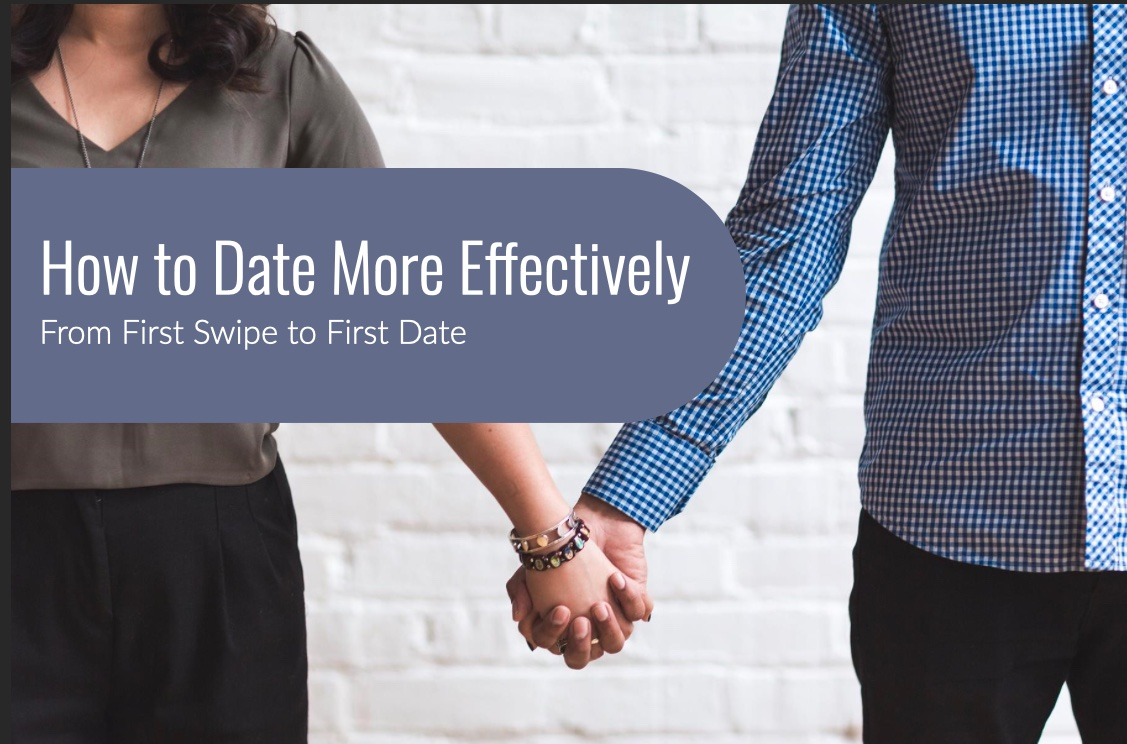
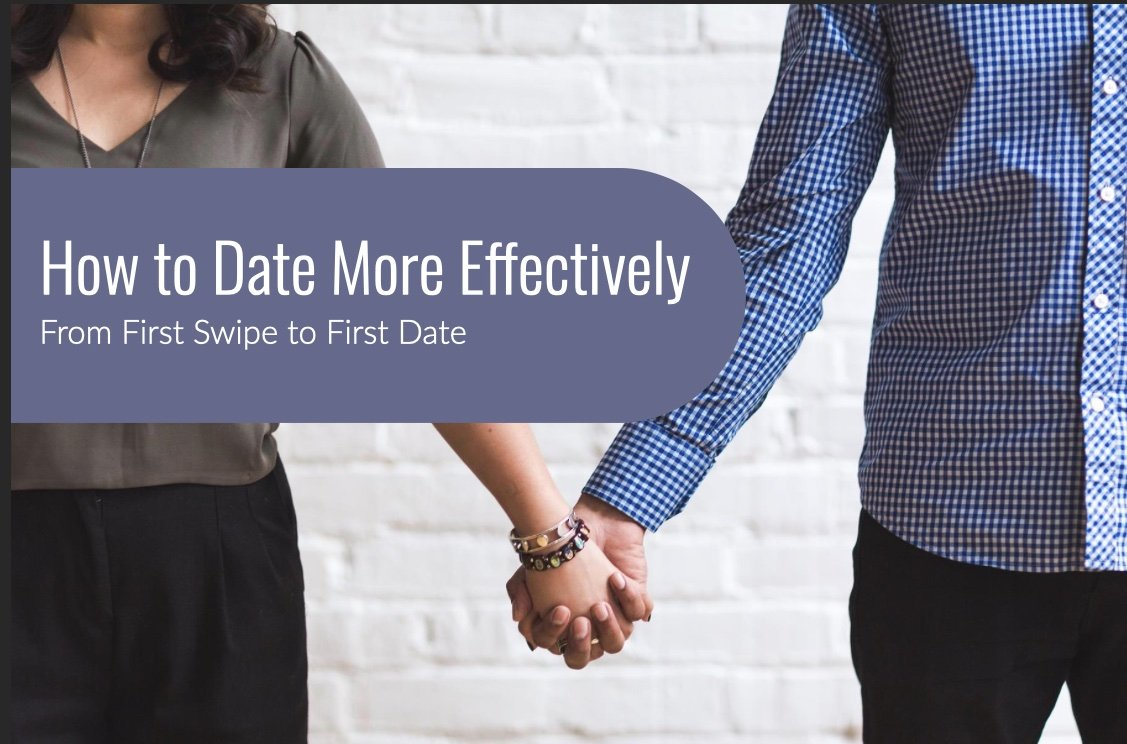
Re-encode the five heavy project images, lazy-load all but the first, and reserve the detail hero's box
The seven active project images weighed 3.0 MB, 2.97 MB of it in five
files: the NACVA PNG alone was 1.64 MB at 1920px, and the Portfolio
page's flagship card took 6.7 s to appear on a throttled phone. Their
largest rendered width is 719 CSS px (one column at a 767px viewport),
so 1440px covers a 2x screen. The three title-graphic PNGs had no
transparency and thousands of colours, which a lossless PNG cannot make
small (a 1440px PNG came out at 1.0 MB), so they are WebP now (q90), with
the paths in their project files updated. how-to-waltz.jpg was really a
lossless WebP; it is a lossy WebP under a .webp name. The Storyline
course photo stays a JPEG with the same name (q85). Before/after:
NACVA 1,641,025 -> 98,826 B (1920 -> 1440px); ai-law-course 462,770 ->
66,312; chartway-ficep-enhanced 369,026 -> 54,122; how-to-waltz 268,454
-> 106,304; professional-communication-training 230,797 -> 130,038.
Total 2,972,072 -> 455,602 B (-85%). Side-by-side at 2x DPR the old and
new images look the same; PSNR at display size is 37-47 dB.

Every card image was requested on load, so the 'All' view fetched seven
images at once and the one that mattered finished last. The first card
of a grid now loads eagerly at fetchpriority high and the rest lazily,
all with decoding="async" (src/utils/images.ts; React 18 does not know
the fetchPriority prop, so the lowercase attribute is passed through).
The detail hero sits in a fixed-height box (192px on phones, 288px from
[…]

Changed region(s): [[0.8696, 0.0, 1.0, 0.5565], [0.528, 0.1855, 0.7453, 0.711], [0.9627, 0.5874, 1.0, 0.6801]]

diff --git a/src/pages/ProjectDetailPage.tsx b/src/pages/ProjectDetailPage.tsx
@@ -40,7 +40,7 @@ import { fadeInUp } from '@/lib/animations';
 import { projects, projectCategories } from '@/content';
 import type { ProjectId } from '@/content/projects';
 import type { ProjectBase, ProjectStatus } from '@/types/content';
-import { getImagePath, isPdf, documentHref } from '@/utils';
+import { getImagePath, isPdf, documentHref, imageLoading } from '@/utils';
 import BasePage from './BasePage';
 
 const NewTabHint = () => <span className="sr-only"> (opens in a new tab)</span>;
@@ -383,16 +383,26 @@ const ProjectDetailPage: React.FC = () => {
                 object-contain fixed the height but letterboxed every image in
                 grey bands, which read as an unfinished frame.
 
+                The fixed-height wrapper (192px on phones, 288px from sm up)
+                reserves the image's space before it loads. Without it the
+                img was 0px tall until its header arrived, and the metrics
+                and story jumped down by up to 288px as the reader started.
+                The image is the page's first visible one, so it is fetched
+                eagerly at high priority.
+
                 alt: the title is the h1 just above, so repeating it here only
                 made screen readers say it twice. imageAlt carries the text
                 baked into the graphic; purely pictorial images stay alt="".
               */}
               {currentProject.image && (
-                <img
-                  src={currentProject.image}
-                  alt={currentProject.imageAlt ?? ''}
-                  className="block mx-auto w-auto max-w-full max-h-72 rounded-lg mb-6"
-                />
+                <div className="flex h-48 sm:h-72 items-center justify-center mb-6">
+                  <img
+                    src={currentProject.image}
+                    alt={currentProject.imageAlt ?? ''}
+                    {...imageLoading(true)}
+                    className="block w-auto h-auto max-w-full max-h-full rounded-lg"
+                  />
+                </div>
               )}
 
               <ProjectLinks project={currentProject} className="md:hidden mb-6" />

diff --git a/src/content/projects/ai-law-course.ts b/src/content/projects/ai-law-course.ts
@@ -8,7 +8,7 @@ const aiLawCourse: ProjectBase = {
   title: 'Graduate Curriculum Design Project - AI & Law Course',
   description: 'A three-person graduate capstone team designed and built this ten-week AI and Law course for Master of Legal Studies students, delivered in Canvas. We ran a client interview with the faculty sponsor, developed personas, ran a cognitive walkthrough on our own design, and validated it with a stakeholder review before handover.',
   longDescription: `Graduate capstone, built by a team of three for the University of Utah's S.J. Quinney College of Law. This challenging project required translating complex artificial intelligence concepts into accessible learning experiences for Master of Legal Studies students, demonstrating my ability to work with complex content and diverse subject matter experts. Applied competency-based instructional design principles to build a ten-module weekly curriculum covering AI foundations, prompt engineering, legal research applications, media, and professional ethics, assessed through five quizzes, four applied assignments, and five discussion cycles. The project involved extensive collaboration with legal and technical faculty, providing valuable experience in SME coordination and academic curriculum development. This project showcases my ability to handle complex instructional design challenges and apply systematic methodology to real-world educational needs.`,
-  image: getImagePath('/images/thumbnails/ai-law-course.png'),
+  image: getImagePath('/images/thumbnails/ai-law-course.webp'),
   imageAlt: 'Title graphic: Graduate Course Overview - AI & Law: Bridging Technology and Legal Expertise',
   category: 'id',
   tags: [

diff --git a/src/content/projects/chartway-ficep-enhanced.ts b/src/content/projects/chartway-ficep-enhanced.ts
@@ -8,7 +8,7 @@ const chartwayFicepEnhanced: ProjectBase = {
   title: 'Financial Wellness Internship - FiCEP Curriculum Needs Analysis',
   description: 'I conducted a systematic needs analysis for Chartway Credit Union\'s Financial Counseling Examination Preparation program. This project involved applying ADDIE methodology and evidence-based research to identify performance gaps and provide curriculum enhancement recommendations.',
   longDescription: `Conducted comprehensive needs analysis for Chartway Credit Union's Financial Information Counseling and Education Program (FiCEP) certification preparation program under professional supervision. Applied systematic ADDIE methodology including semi-structured interviews with 5 program participants and survey distribution yielding 21 responses to identify performance barriers following ACU's sixth edition material update. Analysis revealed key findings: Management Needs to Set Apart More Time (23 mentions - highest priority), Study Guide was Helpful (17 mentions), Personalized per organization Content (16 mentions), Need Better Practice Exam (12 mentions). Delivered evidence-based curriculum enhancement recommendations addressing organizational support structures, assessment alignment gaps, and contextual learning approaches to help restore examination pass rates and improve learner experience.`,
-  image: getImagePath('/images/thumbnails/chartway-ficep-enhanced.png'),
+  image: getImagePath('/images/thumbnails/chartway-ficep-enhanced.webp'),
   imageAlt: 'Title graphic: Systematic Needs Analysis - FiCEP Curriculum Redesign for Corporate Training Improvement',
   category: 'id',
   tags: [

diff --git a/src/components/features/portfolio/ProjectCard.tsx b/src/components/features/portfolio/ProjectCard.tsx
@@ -33,11 +33,16 @@ import { ExternalLink, ArrowRight } from 'lucide-react';
 import { ProjectBase } from '@/types/content';
 import { cardHover } from '@/lib/animations';
 import { Badge } from '@/components/ui';
-import { isPdf, documentHref } from '@/utils';
+import { isPdf, documentHref, imageLoading } from '@/utils';
 
 interface ProjectCardProps {
   project: ProjectBase;
   className?: string;
+  /**
+   * The first card on the page: its image is fetched eagerly at high
+   * priority. Every other card's image is lazy-loaded.
+   */
+  priority?: boolean;
 }
 
 const STATUS_LABELS: Record<string, string> = {
@@ -62,7 +67,8 @@ const outlineAction = `${actionBase} border-2 border-primary-600 text-primary-60
 
 export const ProjectCard: React.FC<ProjectCardProps> = ({
   project,
-  className = ''
+  className = '',
+  priority = false
 }) => {
   const location = useLocation();
   const [imageFit, setImageFit] = useState<'cover' | 'contain'>('contain');
@@ -95,6 +101,7 @@ export const ProjectCard: React.FC<ProjectCardProps> = ({
         <img
           src={project.image}
           alt={project.imageAlt ?? ''}
+          {...imageLoading(priority)}
           onLoad={handleImageLoad}
           className={`w-full h-full ${imageFit === 'cover' ? 'object-cover' : 'object-contain'} transition-transform duration-300 motion-safe:group-hover:scale-105`}
         />

diff --git a/src/content/projects/course-waltz.ts b/src/content/projects/course-waltz.ts
@@ -8,7 +8,7 @@ const waltzCourse: ProjectBase = {
   title: "Teaching the Waltz Online Course",
   description: "I created this online dance education course for teaching waltz to beginners. This project involved applying ADDIE methodology and ARCS motivation model to transform physical dance instruction into an engaging digital learning experience.",
   longDescription: "Graduate final project, co-designed with a classmate, taking a physical skill - the waltz box step and progressive basic - and building it into a self-paced Canvas course for complete beginners. The interesting constraint is that dance is kinesthetic and the delivery is not: learners cannot be corrected in the moment, so the design has to anticipate the mistakes instead. We worked from a written needs assessment through a full module blueprint, then assessment design, then a small-group formative evaluation. Instruction was filmed rather than sourced from existing video so that demonstrations could deliberately show the common errors as well as the correct form.",
-  image: getImagePath('/images/thumbnails/how-to-waltz.jpg'),
+  image: getImagePath('/images/thumbnails/how-to-waltz.webp'),
   category: "id",
   tags: ["Instructional Design", "Online Learning", "Dance Education", "Canvas LMS", "Curriculum Development"],
   status: "completed",

diff --git a/src/content/projects/nacva-automation.ts b/src/content/projects/nacva-automation.ts
@@ -12,7 +12,7 @@ const nacvaAutomation: ProjectBase = {
 CVA and MAFF are highly respected, nationally accredited credentials for CPAs, business valuators, and financial litigation consultants. My work focused on modernizing their learning content delivery systems and eliminating time-consuming manual data entry processes that delayed course deployment for busy professionals seeking these certifications.
 
 This contractor role provided valuable experience in learning technology optimization for professional development organizations, demonstrating how technical automation can significantly improve educational content delivery for specialized professional audiences.`,
-  image: getImagePath('/images/thumbnails/Presentation - NACVA Professional Certification Technology.png'),
+  image: getImagePath('/images/thumbnails/Presentation - NACVA Professional Certification Technology.webp'),
   imageAlt: 'Title graphic: NACVA Professional Certifications - Supporting financial professionals using automation solutions',
   category: 'technical',
   tags: [

diff --git a/src/utils/images.ts b/src/utils/images.ts
@@ -1,0 +1,24 @@
+/**
+ * @file images.ts
+ * @description Loading hints for <img> elements
+ * @module utils
+ */
+import type { ImgHTMLAttributes } from 'react';
+
+/**
+ * How the browser should fetch an image.
+ *
+ * - priority: the page's first visible image (the LCP candidate). Loaded
+ *   eagerly at high fetch priority, so it does not queue behind the others.
+ * - otherwise: lazy, so images below the fold are fetched only as the
+ *   visitor scrolls near them instead of competing with the first one.
+ *
+ * React 18 does not know the fetchPriority prop and warns about it, so the
+ * lowercase HTML attribute is passed straight through instead.
+ */
+export const imageLoading = (priority = false): ImgHTMLAttributes<HTMLImageElement> =>
+  ({
+    loading: priority ? 'eager' : 'lazy',
+    decoding: 'async',
+    ...(priority ? { fetchpriority: 'high' } : {})
+  }) as ImgHTMLAttributes<HTMLImageElement>;

diff --git a/src/components/features/portfolio/ProjectGrid.tsx b/src/components/features/portfolio/ProjectGrid.tsx
@@ -136,7 +136,7 @@ export const ProjectGrid: React.FC<ProjectGridProps> = ({
         className="grid grid-cols-1 md:grid-cols-2 lg:grid-cols-3 gap-8"
         variants={staggerContainer}
       >
-        {filteredProjects.map(project => (
+        {filteredProjects.map((project, index) => (
           <motion.div
             key={project.id}
             className="h-full"
@@ -144,7 +144,8 @@ export const ProjectGrid: React.FC<ProjectGridProps> = ({
             animate={{ opacity: 1, y: 0 }}
             transition={{ duration: 0.2 }}
           >
-            <ProjectCard project={project} className="h-full" />
+            {/* Only the first card's image is fetched up front; see imageLoading. */}
+            <ProjectCard project={project} className="h-full" priority={index === 0} />
           </motion.div>
         ))}
       </motion.div>

diff --git a/src/utils/index.ts b/src/utils/index.ts
@@ -6,3 +6,4 @@
 
 export { getBaseUrl, getImagePath, getAssetPath } from './paths';
 export { isPdf, documentHref, PDF_OPEN_PARAMS } from './documents';
+export { imageLoading } from './images';
